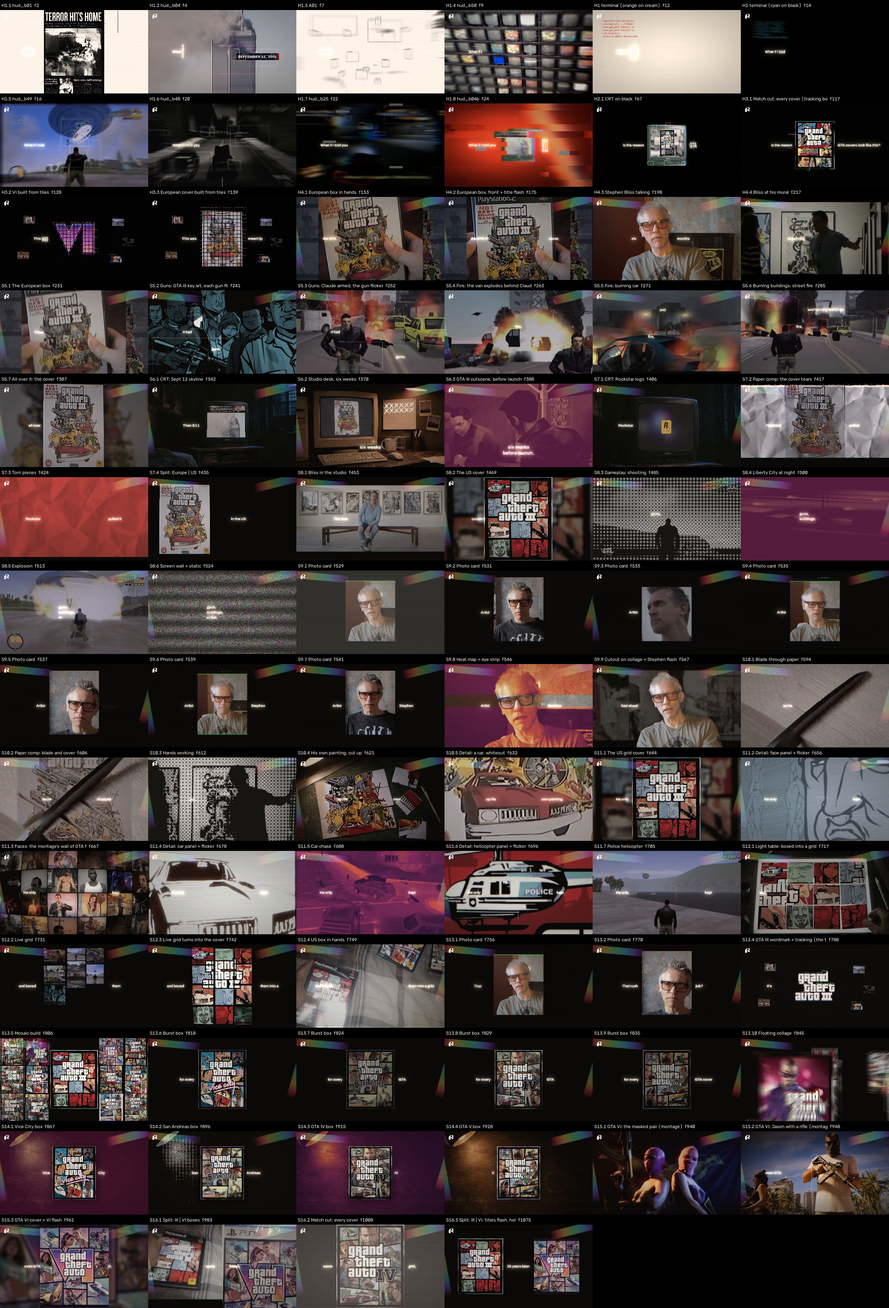
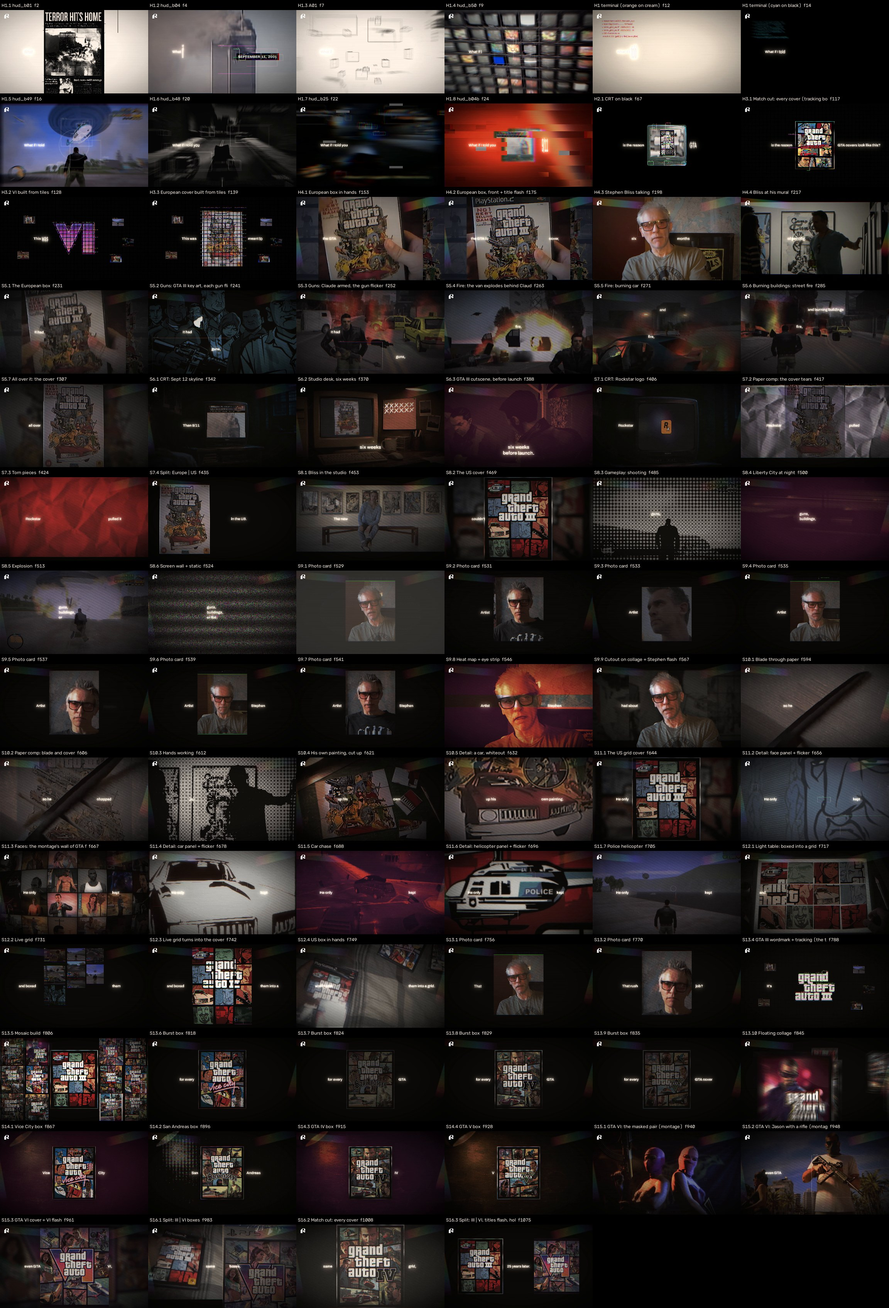
Restore the reel to v6 exactly (undo v7 typography, texture removal and the live box-front shot)
Claude-Session: https://claude.ai/code/session_01Gm9Yp3fAuoBuwqFpYvjPeA

diff --git a/gta-911-cover-reel/build/v3.py b/gta-911-cover-reel/build/v3.py
@@ -488,44 +488,6 @@ def tracked_shot(name, b, t, d, roi, big=(), n=7, seed=1, scale=100, cx=960, cy=
     return g
 
 
-def front_live(d, t=50.0):
-    """B09 from 50 s playing (it was a still): the rotoscoped title mask (drawn on the 50 s frame) is carried along with
-    the box - a similarity transform per frame from Lucas-Kanade tracking of the title's corners, from the still onto
-    each frame of the select - so the flash stays on the letters while the box moves in his hands."""
-    a = R["b09_front"]; sc = W / a["w"]
-    sel = prep.sel("B09", t, d / FPS + 0.2); sa = R[sel]
-    v = rl.vclip("B09 European box, front (live)", "B09", t, d, drift_on=False)
-    still = cv2.cvtColor(cv2.imread(a["path"]), cv2.COLOR_BGR2GRAY)
-    m = cv2.imread(R["b09_front_title_mask"]["path"], cv2.IMREAD_UNCHANGED)[..., 3]
-    ys, xs = np.nonzero(m > 128); roi = np.zeros_like(still); roi[max(0, ys.min() - 20):ys.max() + 20, max(0, xs.min() - 20):xs.max() + 20] = 255
-    c0 = np.float32([(xs.min() + xs.max()) / 2, (ys.min() + ys.max()) / 2])
-    cap = cv2.VideoCapture(sa["path"]); frames, i, st = [], 0, int(round(sa["lead"] * FPS))
-    while len(frames) < d:
-        ok, f = cap.read()
-        if not ok: break
-        if i >= st: frames.append(cv2.cvtColor(f, cv2.COLOR_BGR2GRAY))
-        i += 1
-    p0 = cv2.goodFeaturesToTrack(still, 120, 0.01, 6, mask=roi)
-    prev, pp = still, p0; keys = []
-    for k, fr in enumerate(frames):
-        q, stt, _ = cv2.calcOpticalFlowPyrLK(prev, fr, pp, None, winSize=(31, 31), maxLevel=3)
-        good = stt.ravel() == 1
-        M, _ = cv2.estimateAffinePartial2D(p0[good], q[good]) if good.sum() >= 6 else (None, None)
-        if M is None: M = np.float32([[1, 0, 0], [0, 1, 0]])
-        s_ = float(np.hypot(M[0, 0], M[1, 0])); c = M @ np.float32([c0[0], c0[1], 1])
-        keys.append((k, float((c[0] - a["w"] / 2) * sc + 960), float((c[1] - a["h"] / 2) * sc + 540), 100 * s_))
-        prev, pp, p0 = fr, q[good].reshape(-1, 1, 2), p0[good].reshape(-1, 1, 2)
-    cx0, cy0 = float((c0[0] - a["w"] / 2) * sc + 960), float((c0[1] - a["h"] / 2) * sc + 540)
-    tr = lambda: T(960, 540, 100 * sc, ax=a["w"] / 2, ay=a["h"] / 2)
-    fl = D.group("Title flash (tracked to the box)", 0, d, rl.glow_flash("b09_front_title_mask", d, tr, a, 1, halo=16, scale=sc),
-                 tr=T(cx0, cy0, ax=cx0, ay=cy0))
-    D.kf(fl, "positionX", [(k, x, HOLD) for k, x, y, s_ in keys]); D.kf(fl, "positionY", [(k, y, HOLD) for k, x, y, s_ in keys])
-    for p in ("scaleX", "scaleY"): D.kf(fl, p, [(k, s_, HOLD) for k, x, y, s_ in keys])
-    boxes = tracked_hud("Track B09 front", sel, d, vmap(sel), (int(xs.min()), int(ys.min()), int(xs.max() - xs.min()), int(ys.max() - ys.min())), n=1, seed=8, f0=3)
-    for l in boxes: l["transform"]["opacity"] = 35
-    return boxes + [fl, v]
-
-
 def H4():
     """145-227: full-frame footage, captions either side of the subject; v5: tracking boxes locked to the box in his
     hands, the box front and Bliss's face."""
@@ -533,8 +495,14 @@ def H4():
     v = R[prep.sel("B09", 48.5, 16 / FPS + 0.2)]; bw_, bh_ = v["w"], v["h"]
     sh.append(rl.shot("H4.1 European box in hands", 145, 161, [tracked_shot("B09 European box in hands", "B09", 48.5, 16,
                       roi=(0.08 * bw_, 0.02 * bh_, 0.8 * bw_, 0.9 * bh_), big=[(0.3 * bw_, 0.02 * bh_, 0.27 * bw_, 0.36 * bh_)], n=0, seed=5)], dim=10))
-    # v7 (client: "the screen is stuck here"): the live footage instead of a held still; the title flash follows the box
-    sh.append(rl.shot("H4.2 European box, front + title flash", 161, 189, front_live(28), dim=10))
+    a = R["b09_front"]; sc = W / a["w"]
+    tr = lambda: T(960, 540, 100 * sc, ax=a["w"] / 2, ay=a["h"] / 2)
+    front = D.image("B09 European box, front (still frame at 50 s)", "b09_front", 0, 28, tr=tr(), fit="stretch", rect=(0, 0, a["w"], a["h"]))
+    g = cv2.cvtColor(cv2.imread(a["path"]), cv2.COLOR_BGR2GRAY)
+    boxes = hud_pts("HUD box front", g, 28, lambda p: ((p[0] - a["w"] / 2) * sc + 960, (p[1] - a["h"] / 2) * sc + 540), n=1, seed=8, big=0, min_dist=80,
+                    big_size=((300, 460), (180, 280)), f0=3)
+    for l in boxes: l["transform"]["opacity"] = 35          # v5b: one faint box only
+    sh.append(rl.shot("H4.2 European box, front + title flash", 161, 189, boxes + rl.glow_flash("b09_front_title_mask", 28, tr, a, 1, halo=16, scale=sc) + [front], dim=10))
     # B26 at 875: Bliss alone in the call panel (x 228-1692, y 150-1020): panel scaled to fill; boxes on his face
     sh.append(rl.shot("H4.3 Stephen Bliss talking", 189, 207, [tracked_shot("B26 Bliss talking (call panel, filled)", "B26", 875.0, 18, roi=(640, 230, 420, 560),
                       big=[(690, 250, 290, 300)], n=0, seed=6, scale=131, cy=540 + (540 - 585) * 1.31)], dim=10))

diff --git a/gta-911-cover-reel/build/reel.py b/gta-911-cover-reel/build/reel.py
@@ -702,9 +702,9 @@ def S06():
     xs = flicker("Calendar: crossed-off days flicker", "ai_crt_xmarks", d, WF[43] - 364, tr, (0, 0, a["w"], a["h"]), peak=85)
     mx, my = (565 - a["w"] / 2) * s + 960, (380 - a["h"] / 2) * s + 540
     g = D.group("Studio desk + calendar flicker", 0, d, xs + [desk], tr=T(mx, my, ax=mx, ay=my)); push_in(g, d, 6)
-    sh.append(shot("S6.2 Studio desk, six weeks", 364, 376, [g], dim=8))
+    sh.append(shot("S6.2 Studio desk, six weeks", 364, 376, [g], dim=8, top=[shade(d)]))
     # v5: the GTA III cutscene the client liked (was under "He only kept") moves here, framed clear of the fps overlay
-    sh.append(shot("S6.3 GTA III cutscene, before launch", 376, 400, [b48("B48 GTA III cutscene", 30.0, 24, (415, 140, 1010))], look=L_duo("vice"), dim=0))
+    sh.append(shot("S6.3 GTA III cutscene, before launch", 376, 400, [b48("B48 GTA III cutscene", 30.0, 24, (415, 140, 1010))], look=L_duo("vice"), dim=0, top=[shade(24)]))
     tx += words_line("Then 9/11 hit.", [38, 39, 41], ["Then", "9/11", "hit."], "IS", IS, None, 90, 0, 960, "center", WARM, -10, 364, s0, "hard", baseline=920)[0]
     sz = 150; l = big("six weeks", 364 - s0, s1 - s0, "six weeks", AR, sz, 160, 560, axes=CAP, color=WARM, just="left", tracking=0); blur_in(l); tx.append(l)
     tx += caption("before launch", [44, 45], ["before", "launch"], 0, s1, s0, x=164, align="left", size=52)
@@ -1153,11 +1153,10 @@ def overlays():
     half = D.image("2 Halftone", "tex_halftone", 0, END, fit="stretch", blend="overlay", o=20); ease(half, 20, 0)
     grunge = D.image("1 Grunge", "tex_grunge", 0, END, fit="cover", blend="overlay", o=60); ease(grunge, 60, 12)
     ease(vig, 100, 45); ease(scan, 42, 26)
-    # v7 (client): the darkening textures are gone - grunge, halftone and the film-wide vignette. Kept: scan lines, film
-    # grain, the warm lift and the light desaturation (and the rainbow streaks in the shots).
     return D.group("Film-wide overlays", 0, END, [
-        scan, desat, lift,
-        D.group("3 Film grain", 0, END, [grain_layer("grain.png 2400x1400", 100, 11)], blend="overlay", o=22)])
+        scan, vig, desat, lift,
+        D.group("3 Film grain", 0, END, [grain_layer("grain.png 2400x1400", 100, 11)], blend="overlay", o=22),
+        half, grunge])
     return D.group("Film-wide overlays", 0, END, [
         scan, vig,
         D.rect("5 Desaturate", 0, END, 0, 0, W, H, hexc("#808080"), blend="saturation", o=20),

diff --git a/gta-911-cover-reel/build/check.py b/gta-911-cover-reel/build/check.py
@@ -65,7 +65,7 @@ ok(root[0] is logo, "logo slot is not the top layer")
 ok(logo["layers"] and logo["layers"][0]["transform"]["position"] == [56, 48] and logo["layers"][0]["transform"]["opacity"] == 90, "logo missing or misplaced")
 # 7 overlays on every frame
 ov = [l for l in root if l["name"] == "Film-wide overlays"][0]
-ok(ov["playback"]["inputRange"]["duration"] >= int(doc["duration"] * 1000) - 1 and len(ov["layers"]) == 4, "film-wide overlays incomplete")
+ok(ov["playback"]["inputRange"]["duration"] >= int(doc["duration"] * 1000) - 1 and len(ov["layers"]) == 7, "film-wide overlays incomplete")
 notes.append("captions sit above the film-wide overlays (v3, so the glow stays clean)")
 # 8 easing
 eas = set()

diff --git a/gta-911-cover-reel/NOTES.md b/gta-911-cover-reel/NOTES.md
@@ -24,17 +24,14 @@ The layer tree is organised as scene groups. Each scene group holds shot groups,
 - the flash cuts and flash transitions
 - the logo, on top
 
-## v7b: typography back to v6, the other v7 changes kept
+## Restored to v6
 
-**Typography:** every caption is exactly as it was in v6: positions, sizes, entrances, timing and glow. The v7 typography spec is fully reverted. The caption code is byte-identical to v6, and the v7 caption engine and its noise shader are removed.
+At your request the project is back to v6 exactly. Everything after it is undone:
+- the v7 typography spec
+- the removal of the grunge, halftone, vignette and bottom-shade layers
+- the live box-front shot at 0:05.5
 
-**Also reverted, because they only existed to serve the v7 typography:**
-- the empty cell in the cover wall at 0:26
-- the fade to black at the very end (the film ends holding on the covers, as in v6)
-
-**Kept from v7 (not typography):**
-- **0:05.5, "the screen is stuck":** the box-front shot is the live footage, with the title flash tracked to the moving box.
-- **Textures:** the grunge, the halftone, the film-wide vignette and the soft bottom shade under "six weeks / before launch." are still removed. These were the layers darkening the picture. The film grain, scan lines and rainbow streaks stay.
+The build files are identical to the v6 commit (`6e076e8`), and the render was made again from them. The v7 and v7b work is still in the git history if you ever want any of it back.
 
 ## v6: AI plates, placed captions, the Stephen run, a held ending
 
